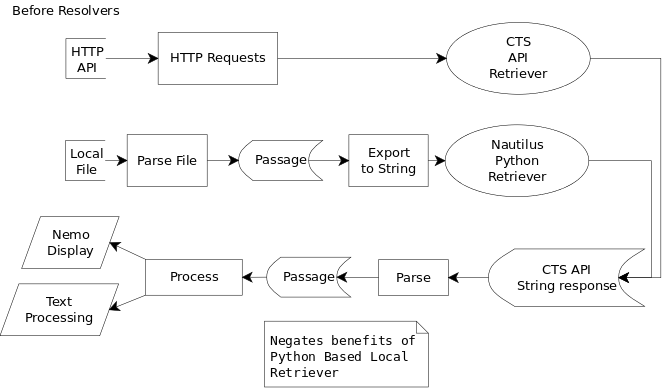
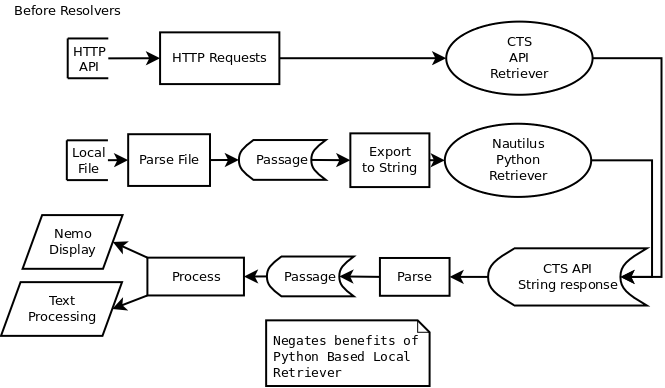
Fixes Images

diff --git a/doc/MyCapytain.classes.rst b/doc/MyCapytain.classes.rst
@@ -35,8 +35,8 @@ The original incentive to build resolvers was the situation with retrievers, in 
     fully native python CTS API), we had the situation where Nemo was parsing strings that were exported from python \
     etree objects by Nautilus which parsed strings.
 
-.. image:: doc/_static/images/Resolvers.Before.svg
-    :target: doc/_static/images/Resolvers.Before.dia
+.. image:: _static/images/Resolvers.Before.svg
+    :target: _static/images/Resolvers.Before.dia
     :alt: Diagram of operations before resolvers : there is duplication of processing
 
 Introducing Resolvers, we managed to avoid this double parsing effect in any situation : MyCapytain now provides a \
